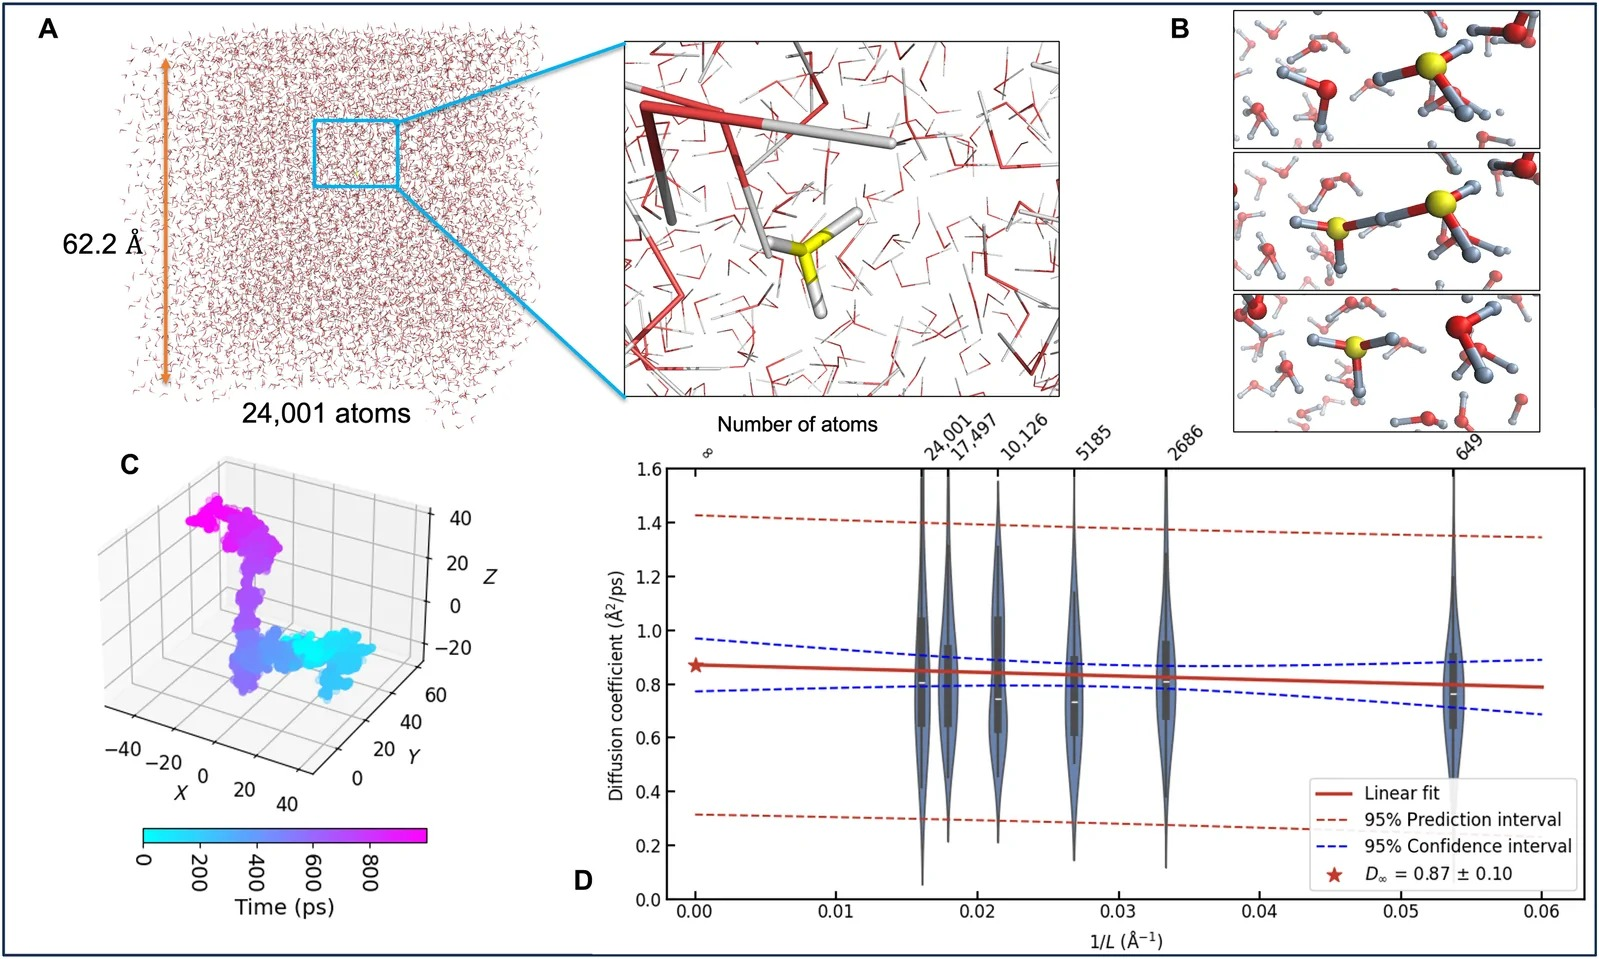
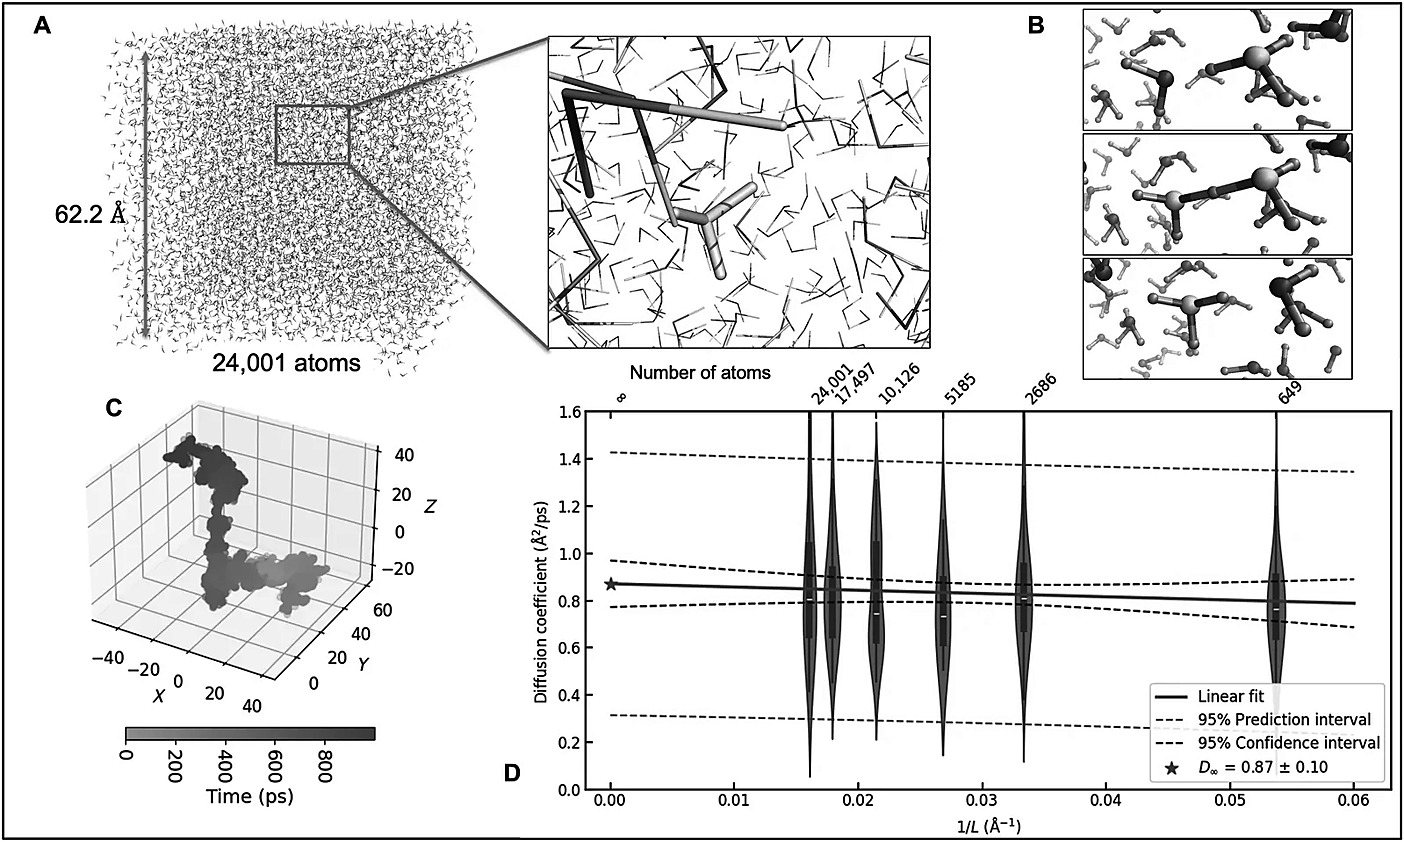
Pre-render figures for reMarkable 2: 1404px grayscale, sharpened, midtones darkened
Figures looked sharp in a desktop browser but blurry on the device, which scales and grayscales images itself. Doing both server-side with Lanczos resampling, a light unsharp mask, and a gamma curve that keeps pale colored labels legible avoids the on-device processing.

diff --git a/docs/articles/42717201.html b/docs/articles/42717201.html
@@ -24,7 +24,7 @@
 <p>合成生物学要成为工程学科，关键瓶颈之一是生物部件（biopart）的定量表征仍依赖相对度量，如启动子强度或RBS强度通常以相对荧光单位报告。这些度量在遗传背景和生理状态变化时并不稳定：外源表达会与宿主竞争核糖体等共享资源，质粒拷贝数、启动子转录速率和RBS翻译效率在合成速率中呈乘积关系，导致标准测量只能恢复混合参数，无法分辨单个部件的贡献。即使增加数据量，缺乏机械与实验结构仍会造成参数不可辨识。</p>
 <p>宿主感知（host-aware）模型虽然能解释资源竞争导致的上下文依赖行为，但尚未被系统用于显式参数鉴定框架。本文提出用大肠杆菌数字孪生（digital twin）并以实测比生长速率 μ 作为低维生理约束，结合结构化组合文库进行模型在环（model-in-the-loop）参数识别，从而把部件固有参数与宿主效应解耦。整体工作流（见图1）。</p>
 <h4>图 1｜组合文库与数字孪生工作流</h4>
-<p><img src="https://nk39010.github.io/pubmed-digest/figures/42717201/Fig1.png" alt="图 1" style="max-width:100%;height:auto"/></p>
+<p><img src="https://nk39010.github.io/pubmed-digest/figures/42717201/Fig1.jpg" alt="图 1" style="max-width:100%;height:auto"/></p>
 <p><strong>图例：</strong>图1 组合表达构建文库和模型在环工作流概览。a 组成型表达构建（EC）文库的组合设计，表达 gfp（GFPmut3），由携带不同复制起始点、启动子和核糖体结合位点（RBS）的质粒骨架组装而成，每个生物部件在多个部分重叠的遗传背景中重复使用。核心文库 L24 用作生物部件参数鉴定的参考数据集，而缩减子文库 L6 和 L5 支持额外部件的增量鉴定与验证。b 实验流程和主要观测变量。时间分辨的光密度和荧光测量被转换成细胞特异性生长速率 μ(t) 和合成速率 Πp(t)，从而得到每个构建体在批次培养轨迹上的 Πp(μ) 关系。生长速率作为约束推断的生理观测变量。c 宿主感知型大肠杆菌数字孪生。实验测得的生长速率用于推断生理一致的宿主状态，包括核糖体通量和依赖营养的延伸状态。将推断的状态与生物部件参数结合以预测构建体的合成速率。通过将数字孪生预测与所有构建体的实测 Πp(μ) 关系拟合来估计生物部件参数。d 将鉴定得到的生物部件固有参数分布通过数字孪生传播，为每个 EC 生成 Πp(μ) 的预测包络。</p>
 <p><strong>图解：</strong>这张图回答整体框架如何工作：组合文库为何能提供可辨识性，数字孪生如何利用生长速率约束。a展示文库设计：35个EC由2个骨架、4个启动子、5个RBS组合生成，每个部件跨多个背景重复使用，使参数估计有独立激励；核心文库L24作为参考，L6和L5用于增量鉴定。b显示实验从时间序列光密度和荧光得到μ(t)和Πp(t)，形成Πp(μ)曲线。c展示数字孪生将实测μ输入宿主模型推断核糖体通量，再结合部件参数预测合成速率。d说明参数分布传播后能为每个构建体生成预测包络。该图支撑了全文的方法学核心：生长速率条件化加上组合设计使部件参数可辨识并可转移。</p>
 <h3>核心发现</h3>
@@ -36,7 +36,7 @@
 <p><strong>图例：</strong>图2 构建文库中的表达、负担和宿主-生理关系。a 实验测定的最大比生长速率 μ_m 和相应的构建体合成速率 Πp(μ_m)，按合成速率递增排列。上图中彩色条形表示平均 Πp(μ_m) 值，黑色圆点表示平均 μ_m 值；竖线表示各孔间标准差。颜色表示核糖体结合位点（RBS）变体。每个 EC 在多个独立实验中于不同日期测定，每次实验 10 个重复孔，每个构建体约 40 条孔级轨迹。完整的孔级数据作为 Source Data 文件提供。下图显示相应的估计构建体诱导的宿主负担 Φ_h(μ_m)（以宿主翻译资源中分配给外源表达的百分比表示）。彩色条形表示平均值，竖线表示与上图相同的各个孔的标准差。b 拟合的肽链延伸速率 ν_t 与特定生长速率 μ 的关系（红色曲线）与文献4,53中的实验值比较。c 预测的成熟活性核糖体蛋白质量分数 Φ_R 作为 μ 的函数（红色曲线）与文献4,53中的实验值比较。源数据作为 Source Data 文件提供。</p>
 <p><strong>图解：</strong>该图回答两个问题：实验数据是否在低负担范围内覆盖足够表达和生长多样性，以及宿主模型是否生理可信。a上部分按合成速率排序显示各EC的最大生长速率μm和Πp(μm)，误差棒为孔间标准差；下部分显示估计宿主负担，均低于3.5%，中位数约1%，说明宿主-电路耦合可测但未造成资源饱和。b和c分别比较模型预测的肽链延伸速率νt和活性核糖体质量分数ΦR与文献实验值，红色曲线基本落在数据点范围内，验证了HEM对宿主生理的刻画。因此数字孪生的宿主状态推断具有生理合理性，为后续参数解耦提供基础。</p>
 <h4>图 3｜部件参数的稳定估计</h4>
-<p><img src="https://nk39010.github.io/pubmed-digest/figures/42717201/Fig3.png" alt="图 3" style="max-width:100%;height:auto"/></p>
+<p><img src="https://nk39010.github.io/pubmed-digest/figures/42717201/Fig3.jpg" alt="图 3" style="max-width:100%;height:auto"/></p>
 <p><strong>图例：</strong>图3 全局生物部件参数估计及其在组合遗传文库中的稳定性。小提琴图显示来自各个孔的重复优化运行得到的参数估计分布。黑色圆点表示中位数，粗竖线表示四分位距，细竖线表示第5-95百分位范围。a 对 pGreen 来源质粒骨架推断的有效拷贝数 N 的分布；低拷贝 pSC101 骨架的拷贝数固定为文献值，未进行估计。b 四个已表征启动子的估计转录速率 ω_A（分子/分钟）。c 五个已表征核糖体结合位点（RBS）变体的固有起始容量 κ0 ≡ K0/σ0（分子^-1），以对数刻度显示。pGreen、J23106、J23102、J23101、B0030、B0032、J61100 和 J61101 的分布包含 n = 240 个参数估计值，来自 24 折留一交叉验证，每折 10 次优化运行。B0034 分布包含 n = 252 个估计值，来自 6 折留一交叉验证，每折 42 次优化运行。J23100 分布包含 n = 98 个估计值，通过拟合 L5 中的所有五个构建体获得。源数据作为 Source Data 文件提供。</p>
 <p><strong>图解：</strong>该图直接展示核心参数估计的稳定性和生物学合理性。a为pGreen骨架有效拷贝数N分布，集中在20–25；pSC101拷贝数固定为文献值未估计。b为四个启动子的转录速率ω，分布较窄说明启动子强度在不同RBS和骨架背景中保持一致。c为五个RBS的κ0，对数刻度下各变体分布明显分离，同样稳定。重复优化和留一交叉验证产生的小提琴图表明参数不受个别孔或组合干扰，支持κ0、ω和N的转移性。该图说明组合文库+数字孪生能够从混合表型中解耦出可重复的绝对参数，是全文的关键证据。</p>
 <h3>方法亮点</h3>

diff --git a/digest/figures.py b/digest/figures.py
@@ -7,7 +7,7 @@ import xml.etree.ElementTree as ET
 from pathlib import Path, PurePosixPath
 
 import httpx
-from PIL import Image
+from PIL import Image, ImageFilter
 
 S3 = "https://pmc-oa-opendata.s3.amazonaws.com"
 S3_NS = "{http://s3.amazonaws.com/doc/2006-03-01/}"
@@ -18,13 +18,16 @@ KEEPABLE = {".webp", ".jpg", ".jpeg", ".png", ".gif"}  # formats worth serving u
 
 class FigureStore:
     def __init__(self, out_dir: Path, site_url: str, max_width: int, grayscale: bool,
-                 keep_original: bool = True, quality: int = 92):
+                 keep_original: bool = True, quality: int = 92, sharpen: bool = False,
+                 gray_gamma: float = 1.0):
         self.out_dir = out_dir
         self.site_url = site_url.rstrip("/") + "/"
         self.max_width = max_width
         self.grayscale = grayscale
         self.keep_original = keep_original
         self.quality = quality
+        self.sharpen = sharpen
+        self.gray_gamma = gray_gamma
         self.http = httpx.Client(timeout=60, follow_redirects=True)
 
     def _package(self, pmcid: str) -> tuple[str, list[str]] | None:
@@ -135,8 +138,14 @@ class FigureStore:
             background.paste(img, mask=img.getchannel("A"))
             img = background
         img = img.convert("L" if self.grayscale else "RGB")
+        if self.grayscale and self.gray_gamma != 1.0:
+            # 浅色（黄、浅蓝等）转灰度后几乎发白，压暗中间调让这些标注仍可读
+            img = img.point(lambda v: round(255 * (v / 255) ** self.gray_gamma))
         if img.width > self.max_width:
             img = img.resize((self.max_width, round(img.height * self.max_width / img.width)), Image.LANCZOS)
+            # 缩放后细线和小字会发虚；轻度锐化补回来，让阅读器无需再缩放
+            if self.sharpen:
+                img = img.filter(ImageFilter.UnsharpMask(radius=1.2, percent=70, threshold=3))
         img.save(path, "JPEG", quality=self.quality, optimize=True)
 
     def prune(self, keep_pmids: set[str]) -> None:

diff --git a/run.py b/run.py
@@ -58,7 +58,8 @@ def main() -> int:
     pubmed.link_pmc(papers)
     fig_cfg = cfg["figures"]
     store = FigureStore(FIGURES_DIR, cfg["feed"]["site_url"], fig_cfg["max_width"], fig_cfg["grayscale"],
-                        fig_cfg["keep_original"], fig_cfg["quality"])
+                        fig_cfg["keep_original"], fig_cfg["quality"], fig_cfg["sharpen"],
+                        fig_cfg["gray_gamma"])
     for p in papers:
         p.open_access = bool(p.pmcid) and store.is_open_access(p.pmcid)
     print(f"其中开放获取（可取全文和原图）：{sum(p.open_access for p in papers)} 篇")

diff --git a/refresh_figures.py b/refresh_figures.py
@@ -21,7 +21,8 @@ def main() -> int:
     cfg = tomllib.loads((ROOT / "config.toml").read_text(encoding="utf-8"))
     fig_cfg = cfg["figures"]
     store = FigureStore(FIGURES_DIR, cfg["feed"]["site_url"], fig_cfg["max_width"], fig_cfg["grayscale"],
-                        fig_cfg["keep_original"], fig_cfg["quality"])
+                        fig_cfg["keep_original"], fig_cfg["quality"], fig_cfg["sharpen"],
+                        fig_cfg["gray_gamma"])
     pubmed = PubMed(**cfg["ncbi"])
     items = json.loads(ITEMS_PATH.read_text(encoding="utf-8"))
 
